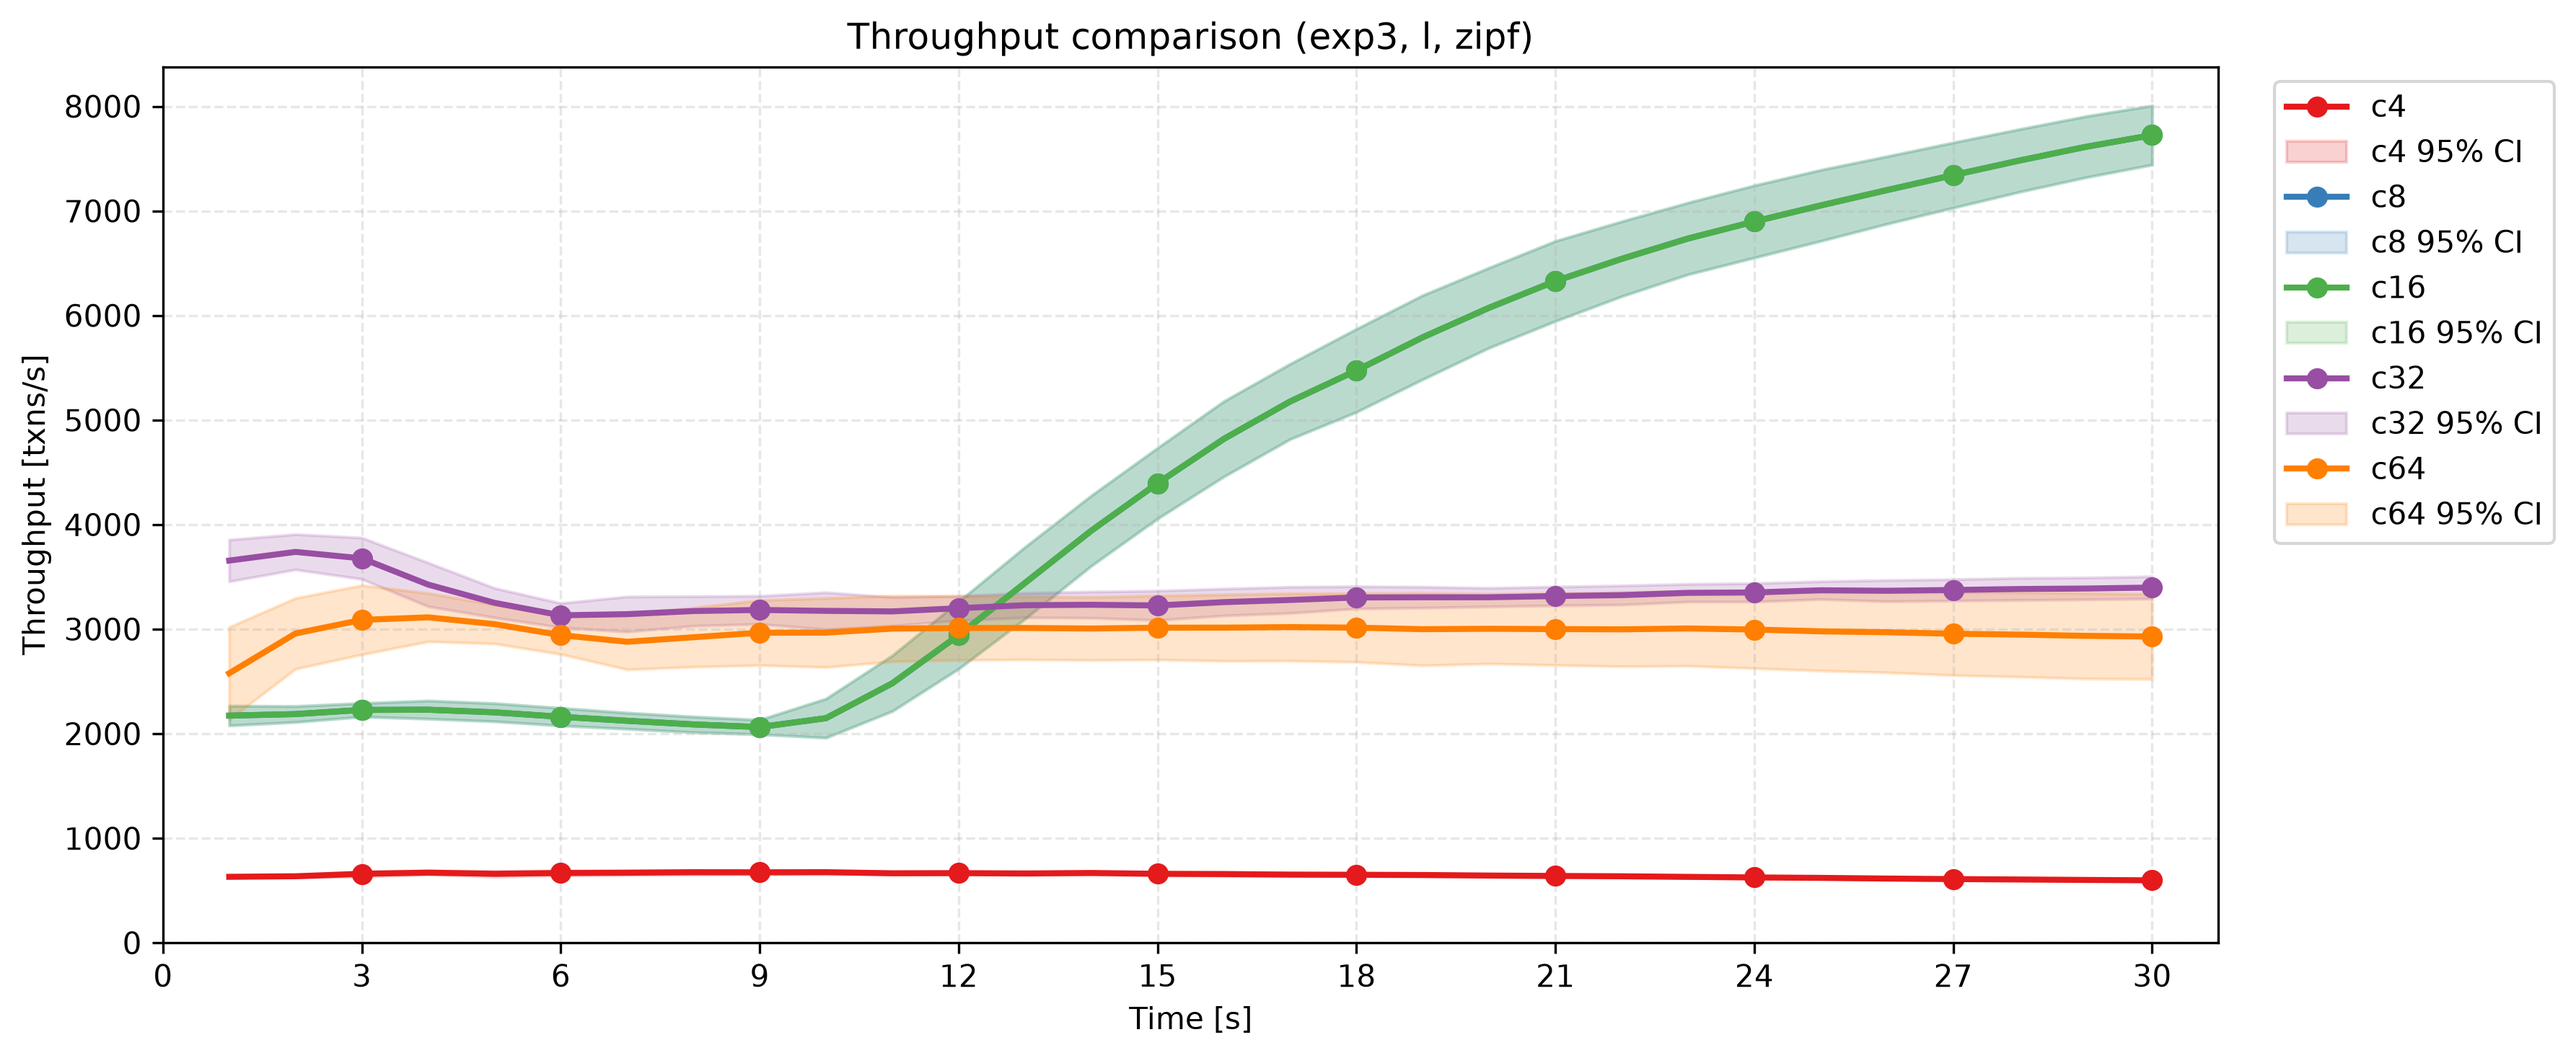
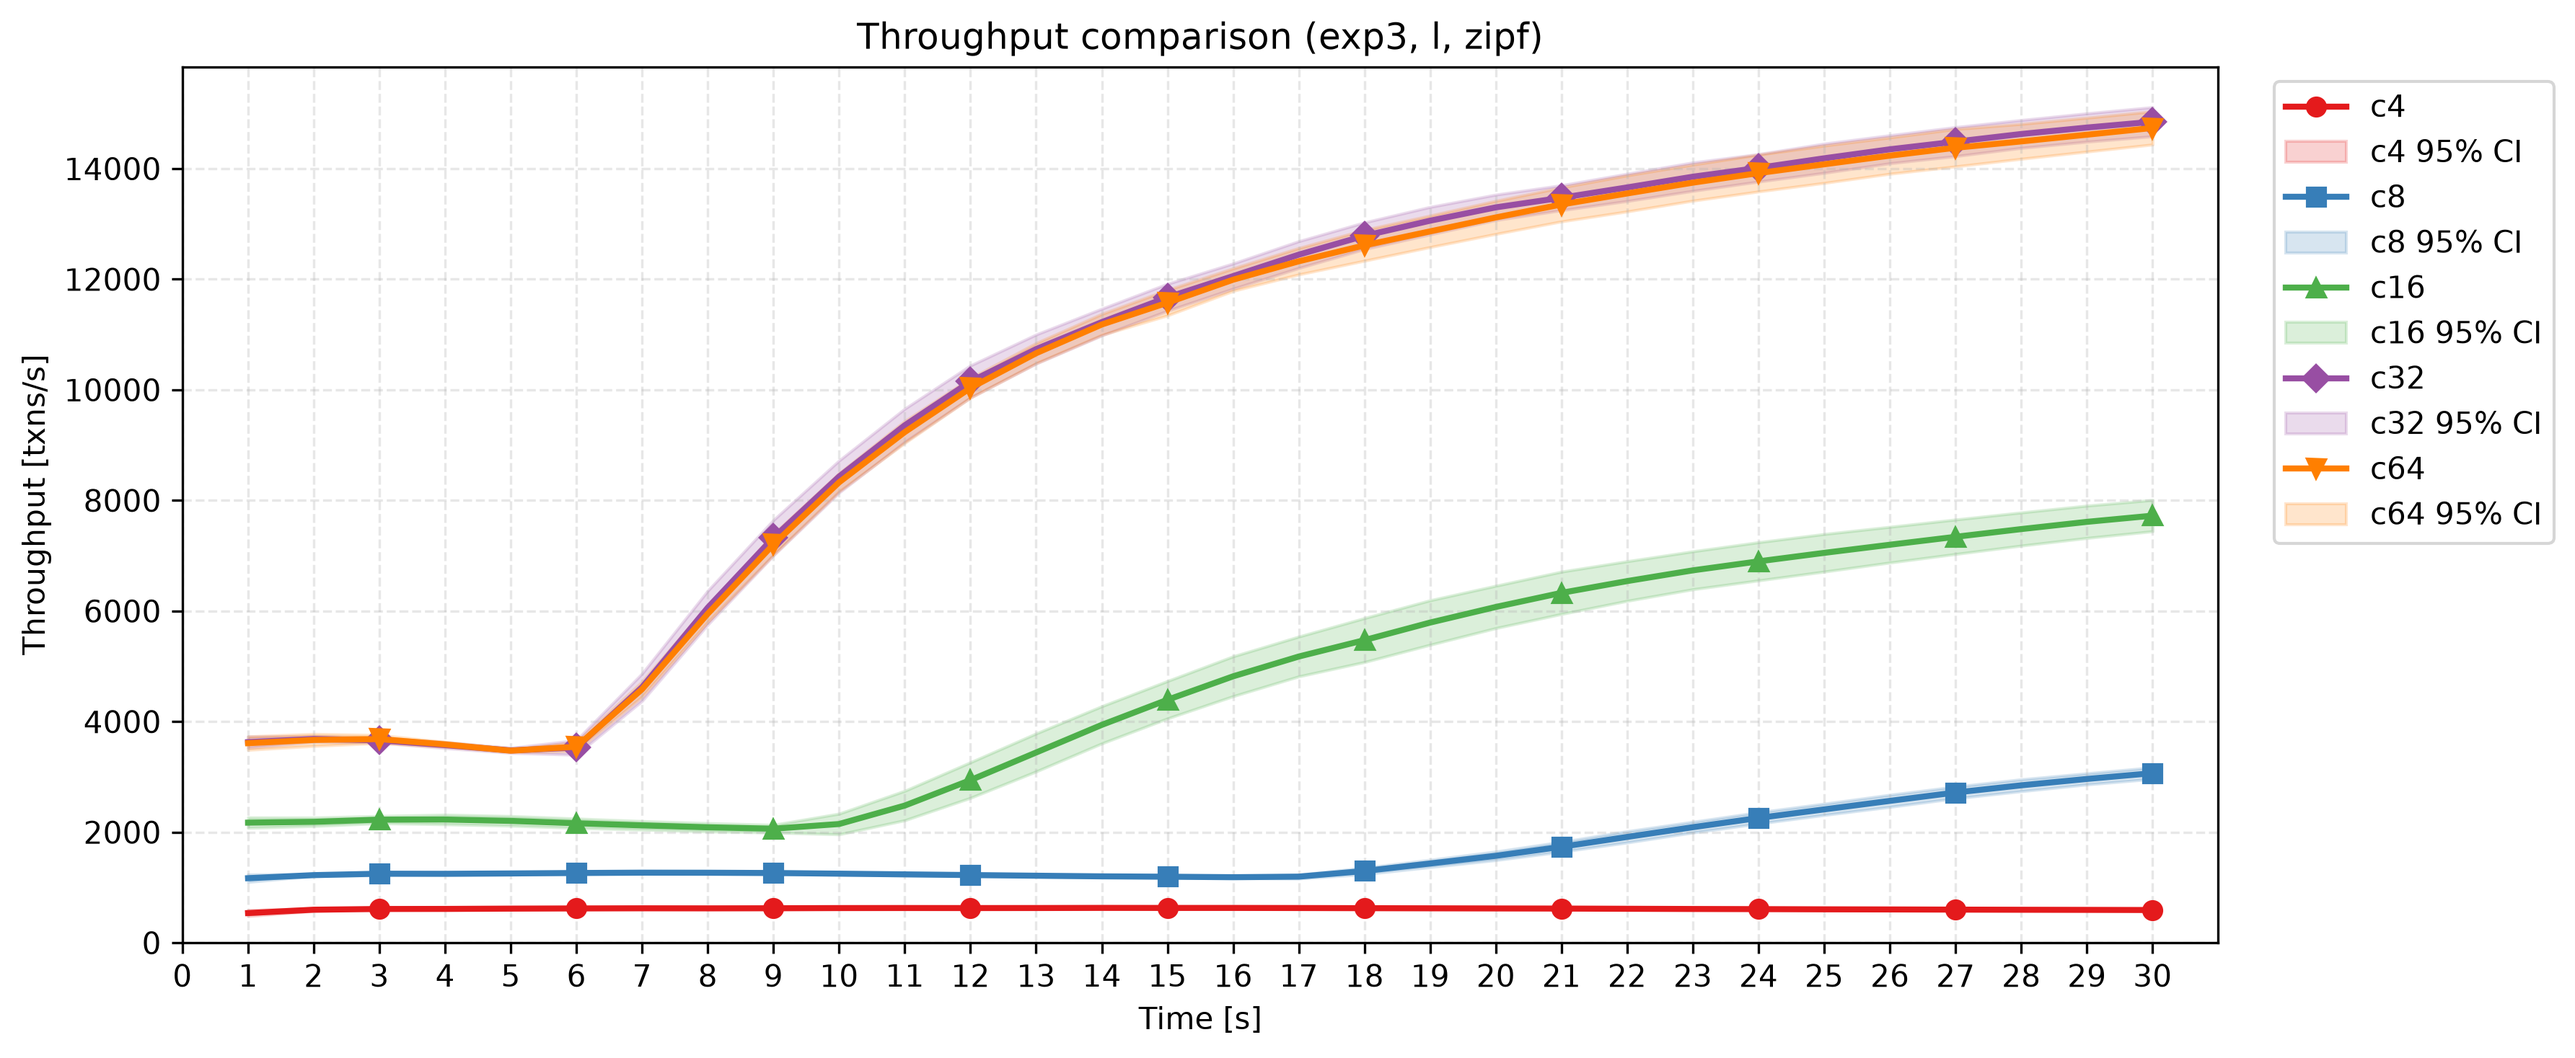
save exp3/mmm compare plot

diff --git a/plot/exp3/compare-throughput-exp3.py b/plot/exp3/compare-throughput-exp3.py
@@ -1,4 +1,3 @@
-import math
 import os
 import sys
 
@@ -16,6 +15,7 @@ from config import (  # pyright: ignore[reportAttributeAccessIssue]
 
 CC_LEVELS = ["c4", "c8", "c16", "c32", "c64"]
 colors = ["#e41a1c", "#377eb8", "#4daf4a", "#984ea3", "#ff7f00"]
+markers = ["o", "s", "^", "D", "v"]
 
 combos = [
     ("l", "uniform"),
@@ -30,7 +30,7 @@ for size, dist in combos:
     fig, ax = plt.subplots(figsize=figsize_single)
     all_times = []
 
-    for (label, data_dir), color in zip(levels, colors):
+    for (label, data_dir), color, marker in zip(levels, colors, markers):
         if not os.path.isdir(data_dir):
             print(f"  Warning: directory not found: {data_dir}")
             continue
@@ -45,7 +45,7 @@ for size, dist in combos:
             means,
             color=color,
             linewidth=2,
-            marker="o",
+            marker=marker,
             markevery=markevery,
             label=label,
         )
@@ -62,17 +62,10 @@ for size, dist in combos:
         print(f"  No data for {size}/{dist}, skipping.")
         continue
 
-    max_t = math.ceil(max(all_times))
-    n_ticks = 10
-    step = max(1, max_t // n_ticks)
-    ticks = list(range(0, max_t + 1, step))
-    if ticks[-1] != max_t:
-        ticks[-1] = max_t
-        if len(ticks) >= 2 and max_t - ticks[-2] < 1.0:
-            ticks.pop(-2)
-
+    end_tick = 30
+    ticks = list(range(0, end_tick + 1))
     ax.set_xticks(ticks)
-    ax.set_xlim([0, max_t + 1])
+    ax.set_xlim([0, end_tick + 1])
     ax.set_ylim(bottom=0)
     ax.ticklabel_format(axis="y", style="plain", useOffset=False)
     ax.set_xlabel("Time [s]")

diff --git a/plot/exp3/compare-s-vs-l-exp3.py b/plot/exp3/compare-s-vs-l-exp3.py
@@ -63,8 +63,8 @@ if __name__ == "__main__":
                 ],
                 fmt="none",
                 color=color,
-                capsize=4,
-                capthick=1.5,
+                capsize=6,
+                capthick=2.5,
             )
 
         ax.set_xticks(M)
@@ -76,9 +76,9 @@ if __name__ == "__main__":
         ax.grid(True, **grid_style)
         plt.tight_layout()
 
-        out_dir = f"charts/cloud/exp3/{dist}"
+        out_dir = "charts/cloud/exp3/throughput-s-vs-l"
         os.makedirs(out_dir, exist_ok=True)
-        out_path = f"{out_dir}/compare-s-vs-l.png"
+        out_path = f"{out_dir}/{dist}.png"
         plt.savefig(out_path, dpi=300, bbox_inches="tight")
         print(f"Saved to {out_path}")
         plt.close(fig)
